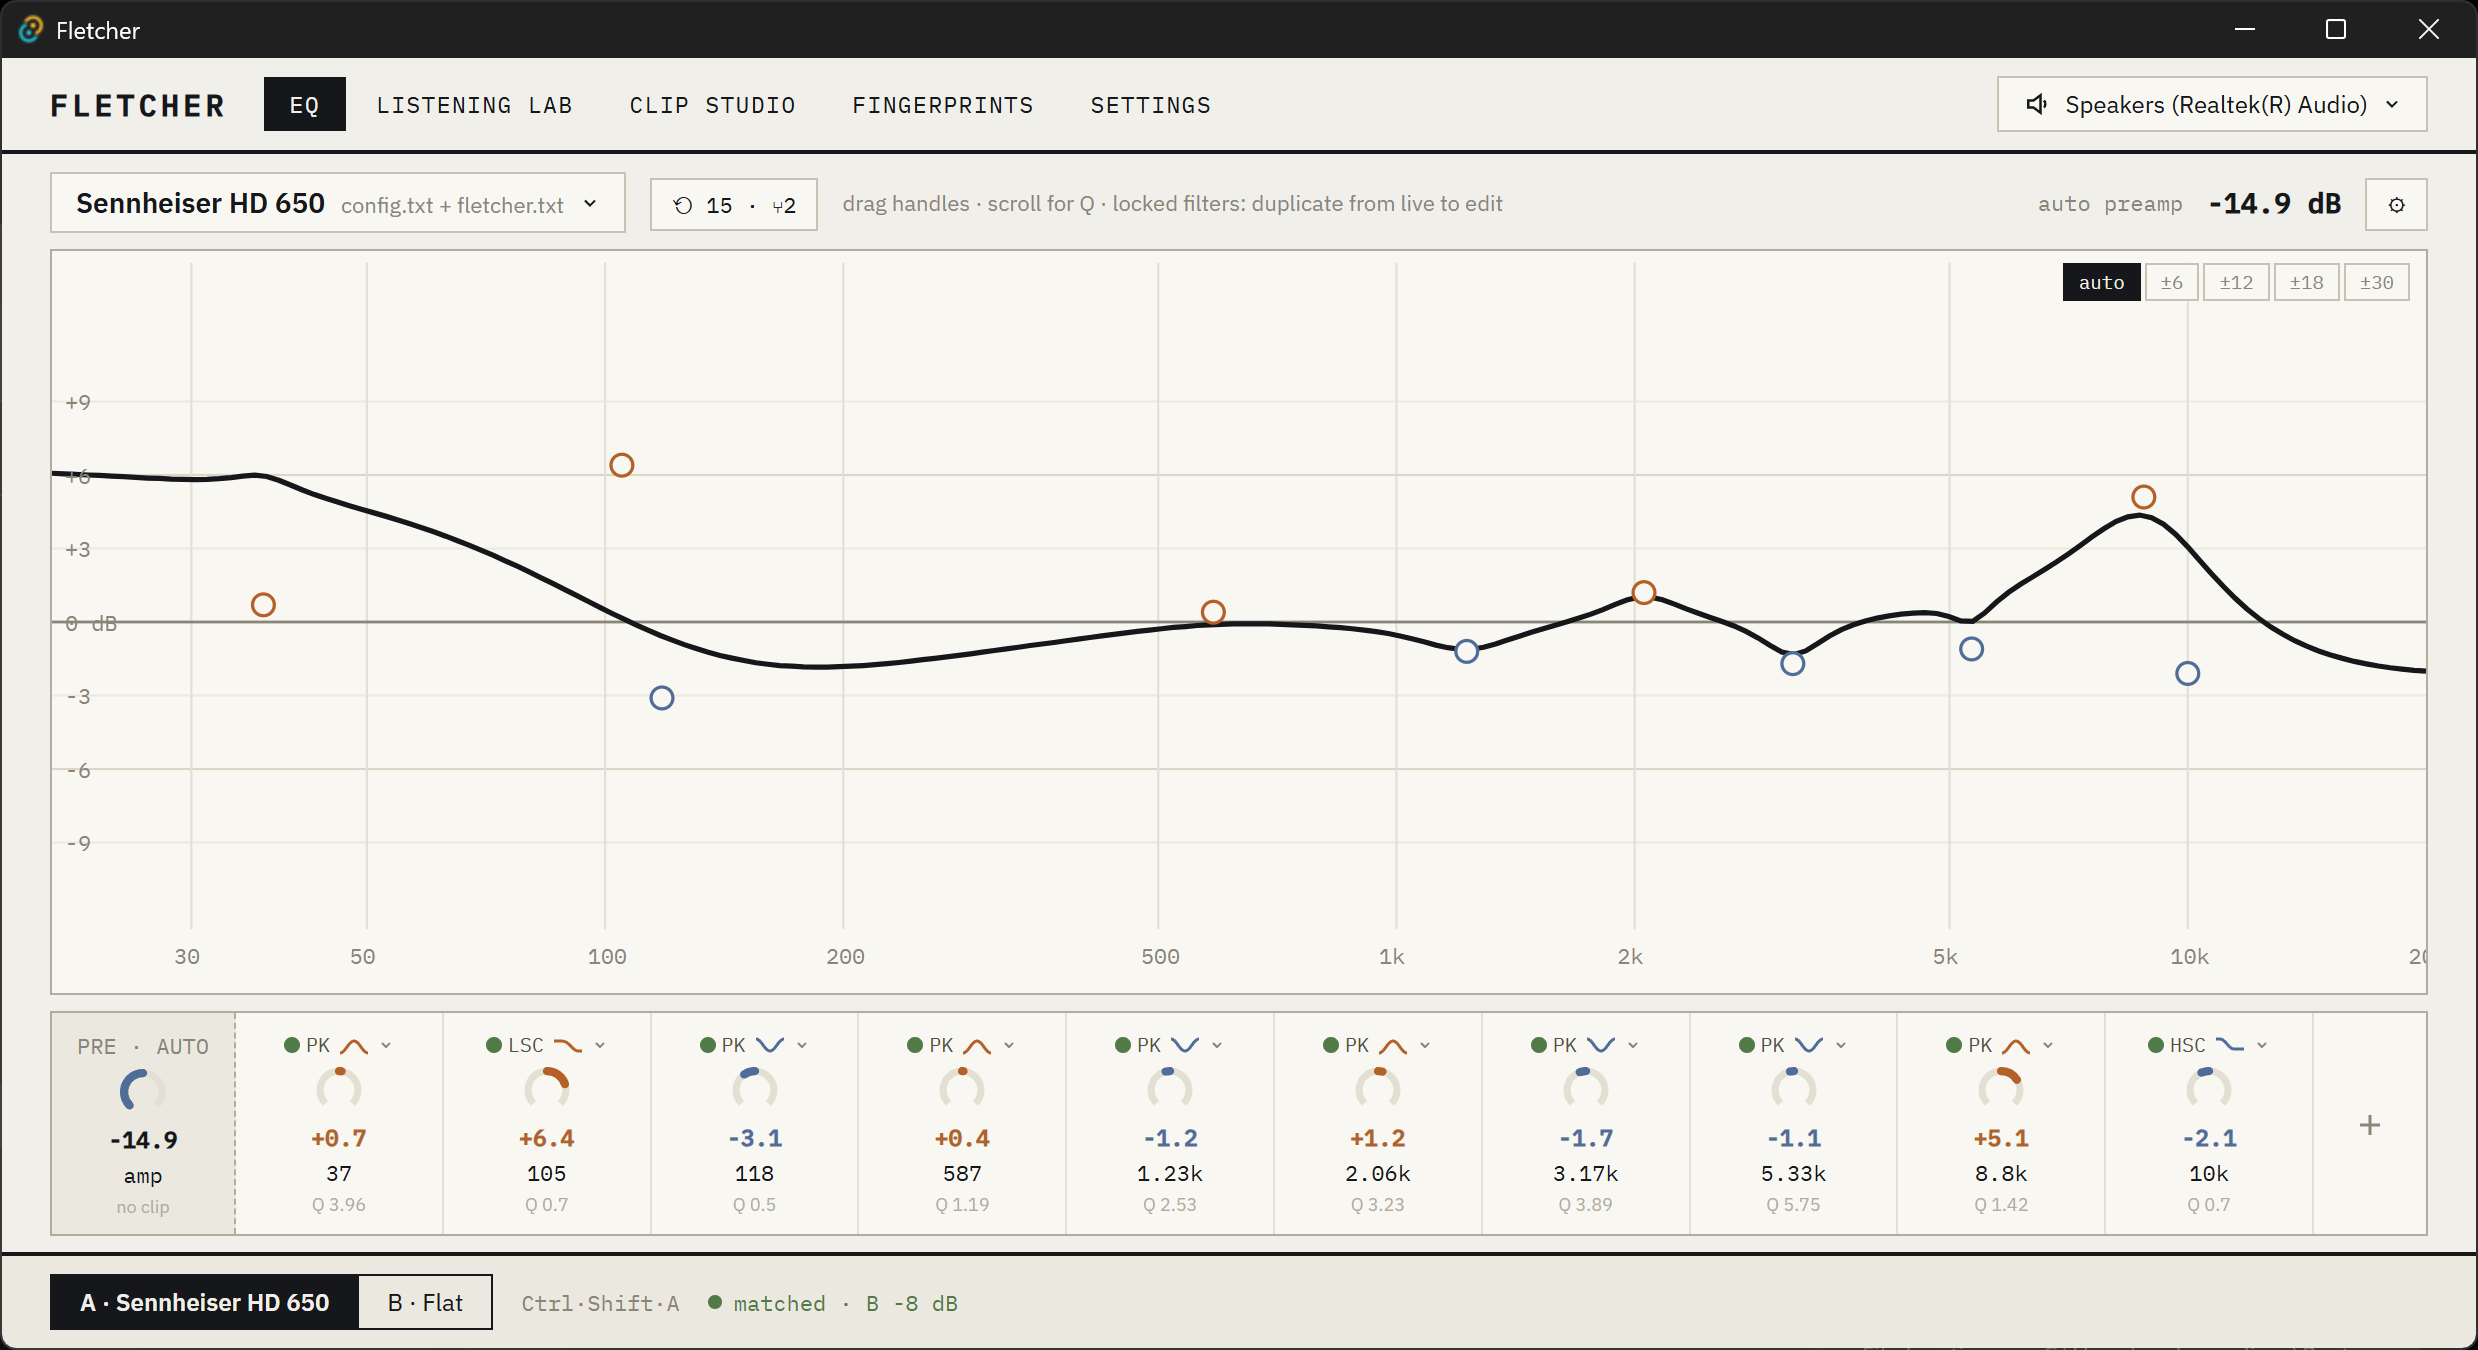
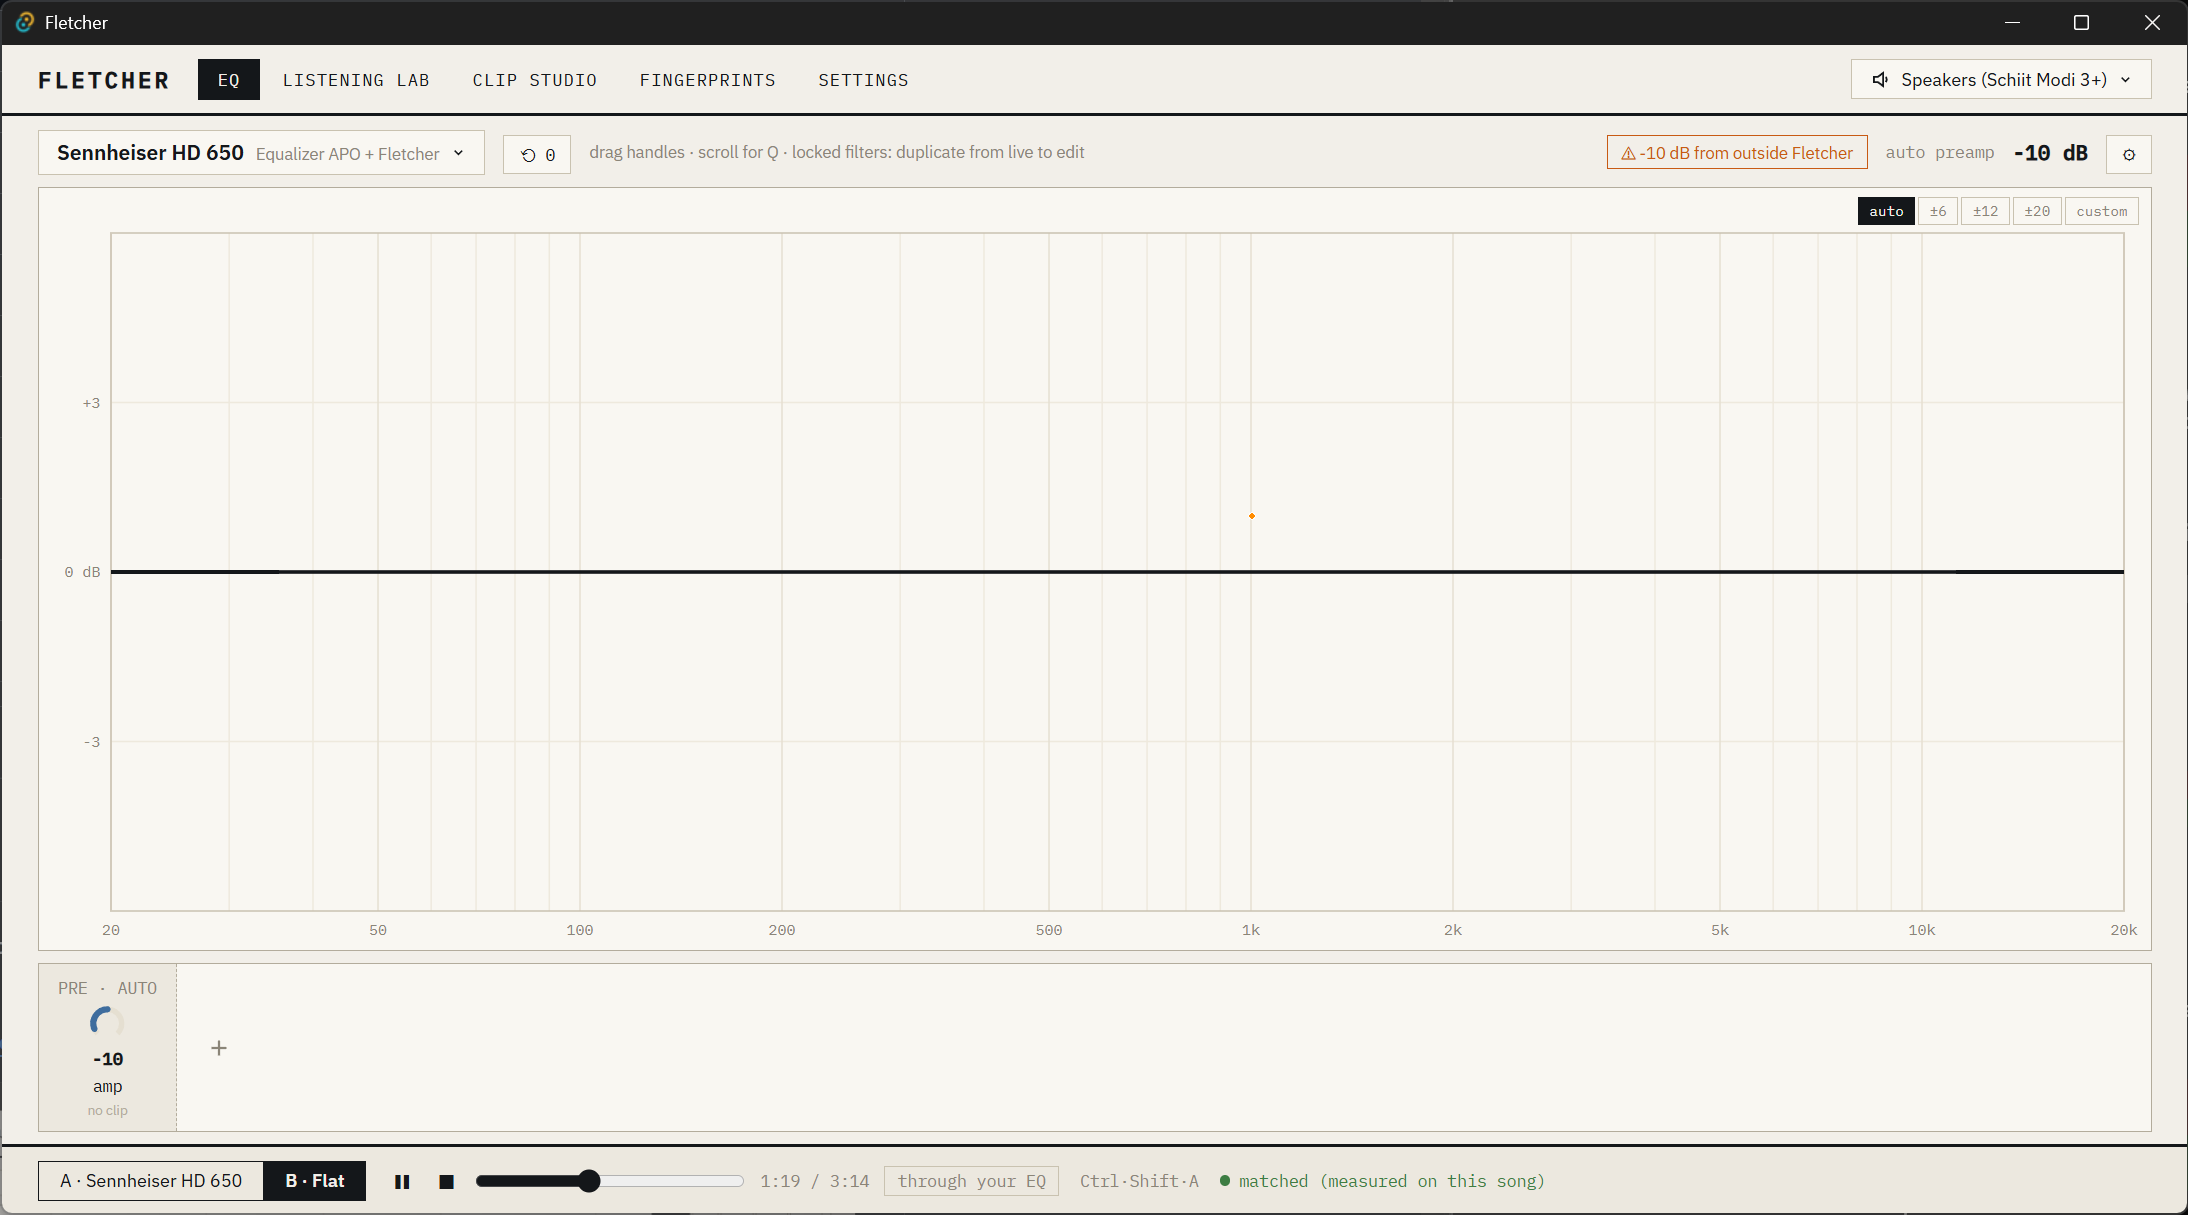
Release 0.3.0

diff --git a/docs/WORKLOG.md b/docs/WORKLOG.md
@@ -2,6 +2,14 @@
 
 Append-only session journal. Newest entry first.
 
+## 2026-10-28 (scale + release 0.3.0) — Custom graph scale; 0.3.0 cut
+
+- **EQ graph scale (127d0a3):** options are now auto, ±6, ±12, ±20, custom (saved ±18 → ±20, saved ±30 → custom +30/−30). The graph supports an asymmetric range (`yTop`/`yBot` replace `dbRange`); grid and labels coarsen on wide ranges (label step 3, 6, 12, … so at most ~14 labels). Custom opens a drop-down with a slider and number box for top and bottom, independent and live. Releasing a slider in the outer 20% of its 40 dB track re-centres the track (the snap logic follows the owner's vibration-sensor frontend's slider re-zoom, simplified to one handle per slider), so travel is unlimited; top stays ≥ 1 dB above bottom, ±200 dB sanity cap. Reset sets both to what auto would show and stays in custom. Owner tuned the slider look live (black, 3 px track, 11 px thumb).
+- Only the main EQ graph changed; the history/pop-out difference graphs keep their own scale buttons.
+- README's EQ screenshot replaced with the current view (the new scale buttons and "matched (measured on this song)" in the A/B bar).
+- **Released 0.3.0:** level matching overhaul (ADR-0016), measured Clip Studio A/B, capped fades, frequency grid and graph layout, single instance, custom scale.
+- **Still open:** fades and the flip measurement run on the UI thread (bounded); the calibration noise is 9.6 dB below Clip Studio's −16 LUFS (owner's call); ADR-0011 §3 and ADR-0014 want an explicit amendment note for the trim/headroom change (owner sign-off); the stale follow-up probe script.
+
 ## 2026-10-28 (review 2) — Measured correction moved onto Clip Studio's stream; fades capped at 3 dB
 
 Committed the level-matching work as 6c47ed8 after the owner heard Clip Studio Through-EQ matched ("even with the normal EQ it's better"). Then a second independent max-effort review: safety core holds (pairing, ceiling last, no deadlocks or writes outside fletcher.txt), three P1s and four P2s, all fixed here except the noted ones:

diff --git a/CHANGELOG.md b/CHANGELOG.md
@@ -2,6 +2,17 @@
 
 Each version's section becomes its GitHub release notes and the "what's new" text in Settings › UPDATES. Write for listeners, not developers.
 
+## 0.3.0
+
+- **A/B comparisons are matched much more accurately.** Fletcher now judges loudness the way loudness meters (LUFS) do, so presets with treble boosts are no longer under-counted. When one side can't reach your reference level without clipping, the other side now comes down with it, instead of one side playing quieter. If two settings truly can't be matched, Fletcher says so rather than calling them matched.
+- **In Clip Studio, A/B is measured on the song itself.** Playing through your EQ, each flip measures both sides on the part of the song you're hearing, and the louder one comes down to match. Even extreme EQs now flip at equal loudness. The A/B bar shows "matched (measured on this song)".
+- **No more sudden volume jumps.** Any rise in level, from a reference change, a preset switch or leaving a comparison, fades in over about a second, never more than 3 dB at a time. Large typed increases ask first.
+- **Blind tests got harder to "cheat".** Switching between A and B in clip tests no longer briefly gets louder mid-switch, and clip trials correct each clip on its measured loudness.
+- **A finer frequency grid** with labels at 20, 50, 100, 200, 500… and a graph that uses the whole panel. Thanks for the request (#4)!
+- **Custom graph scale.** The scale options are now auto, ±6, ±12, ±20 and custom. Custom lets you set the top and bottom separately with sliders or by typing; let go of a slider near its end and it re-centres, so you can keep going.
+- **Opening Fletcher twice brings the existing window forward** instead of starting a second copy.
+- Fletcher fades in briefly at launch.
+
 ## 0.2.2
 
 - Clearer wording throughout. Tooltips, Settings notes and messages now speak plain language instead of referring to internal design notes, and show tool names (Fletcher, Peace, Equalizer APO) instead of config file names.

diff --git a/README.md b/README.md
@@ -16,7 +16,7 @@
 </p>
 
 <p align="center">
-  <img src="docs/images/eq.png" alt="Fletcher's EQ view: a Sennheiser HD 650 correction curve with draggable filter handles and a strip of filter knobs" width="900">
+  <img src="docs/images/eq.png" alt="Fletcher's EQ view: the frequency graph with its scale controls, the filter strip, and the A/B bar showing a comparison level-matched on the song that's playing" width="900">
 </p>
 
 ## Why Fletcher?
